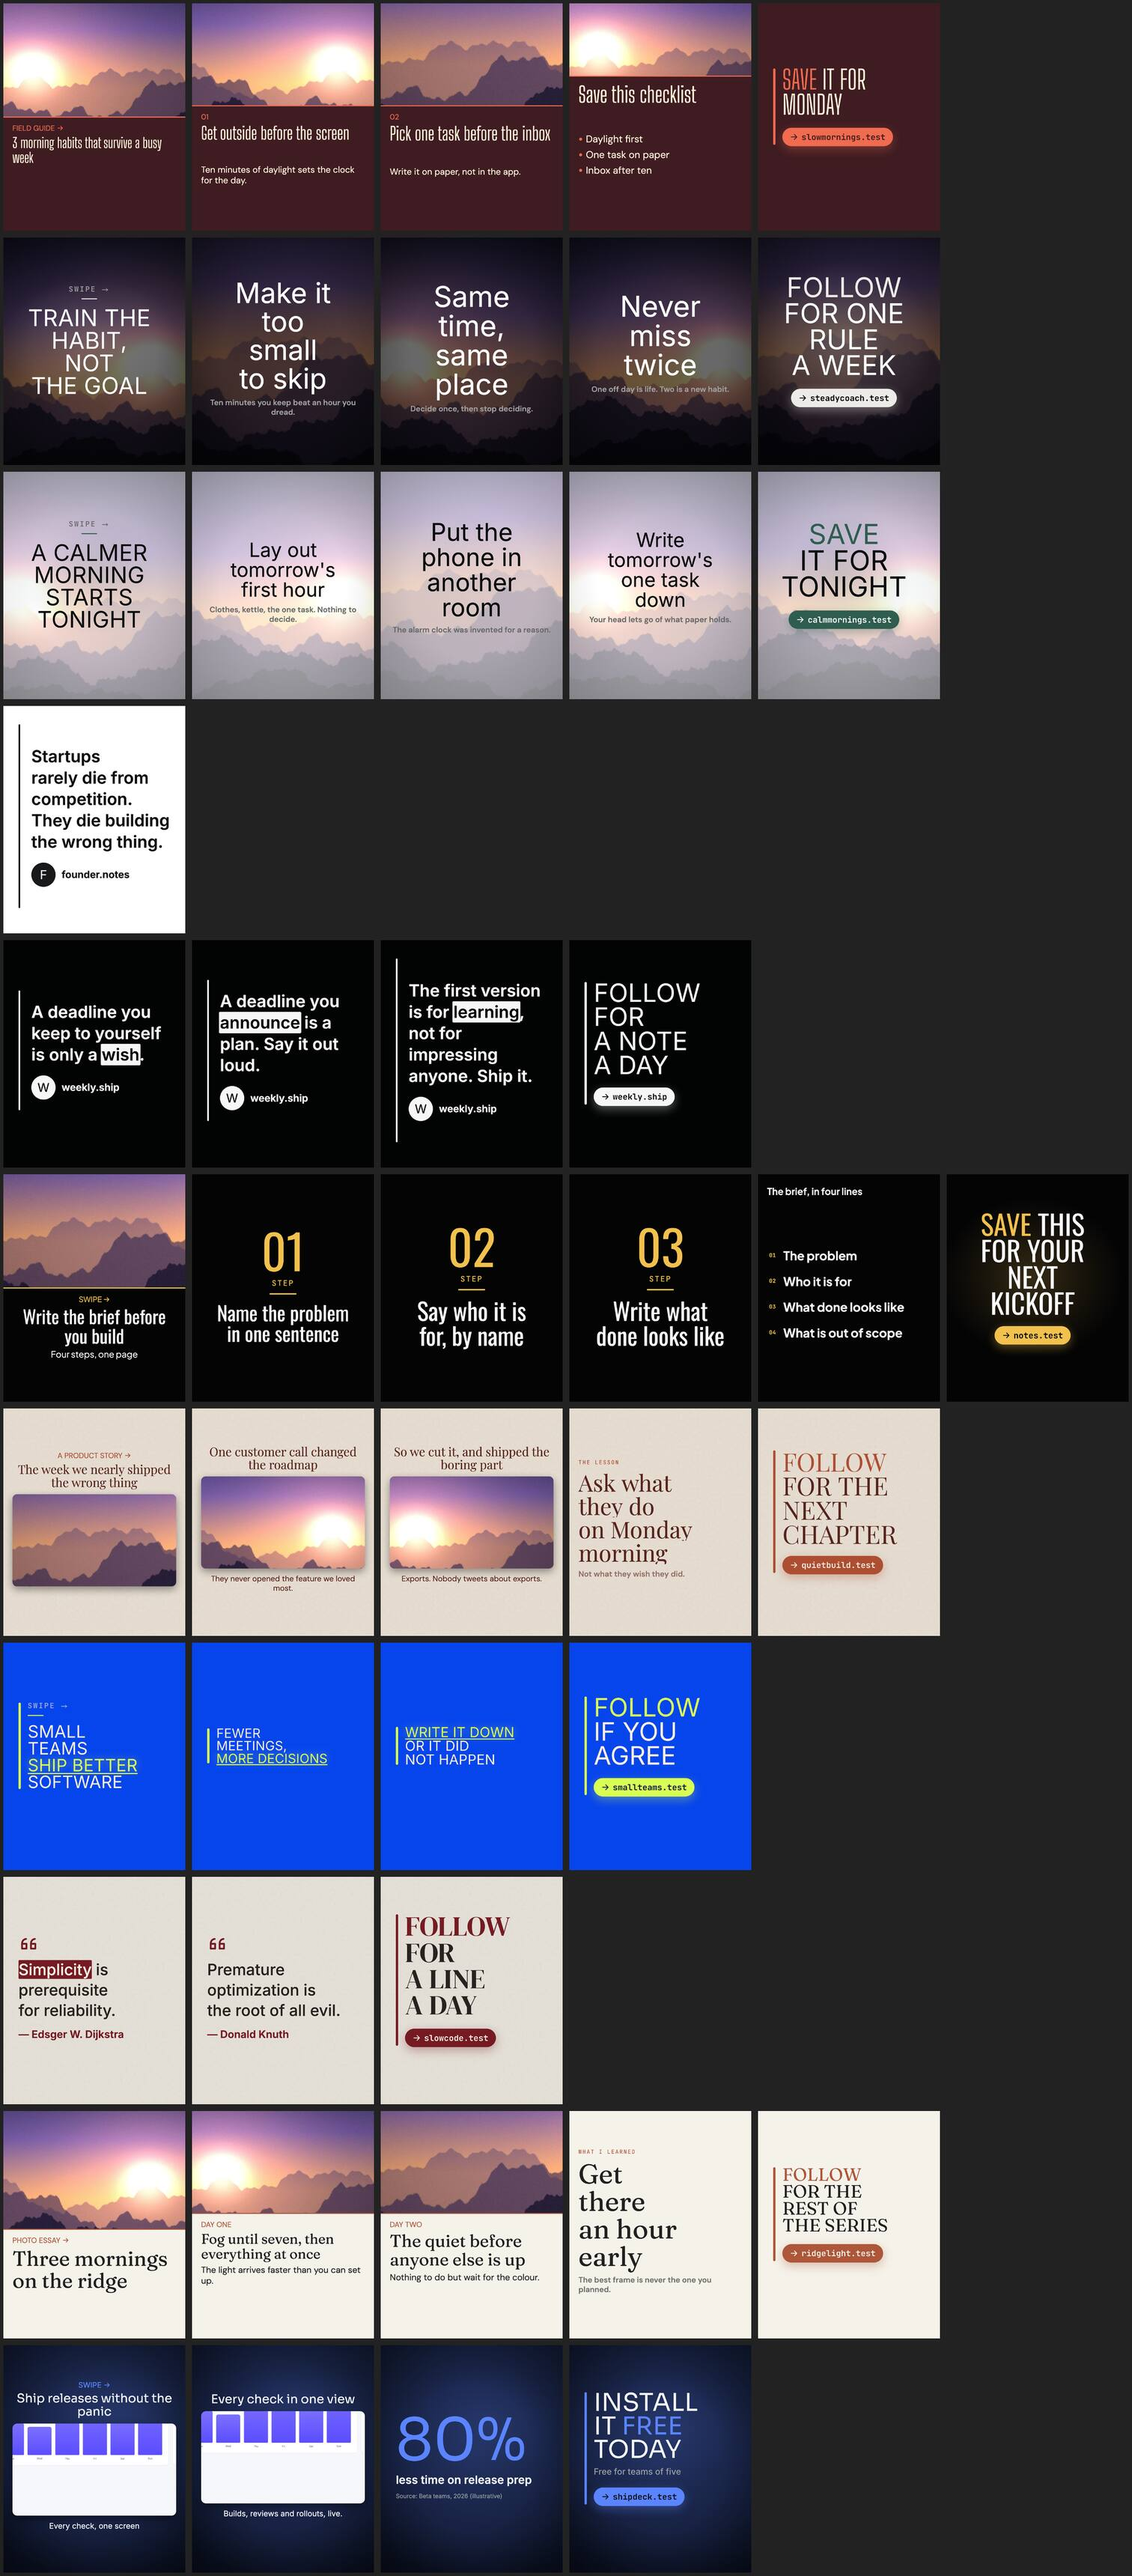
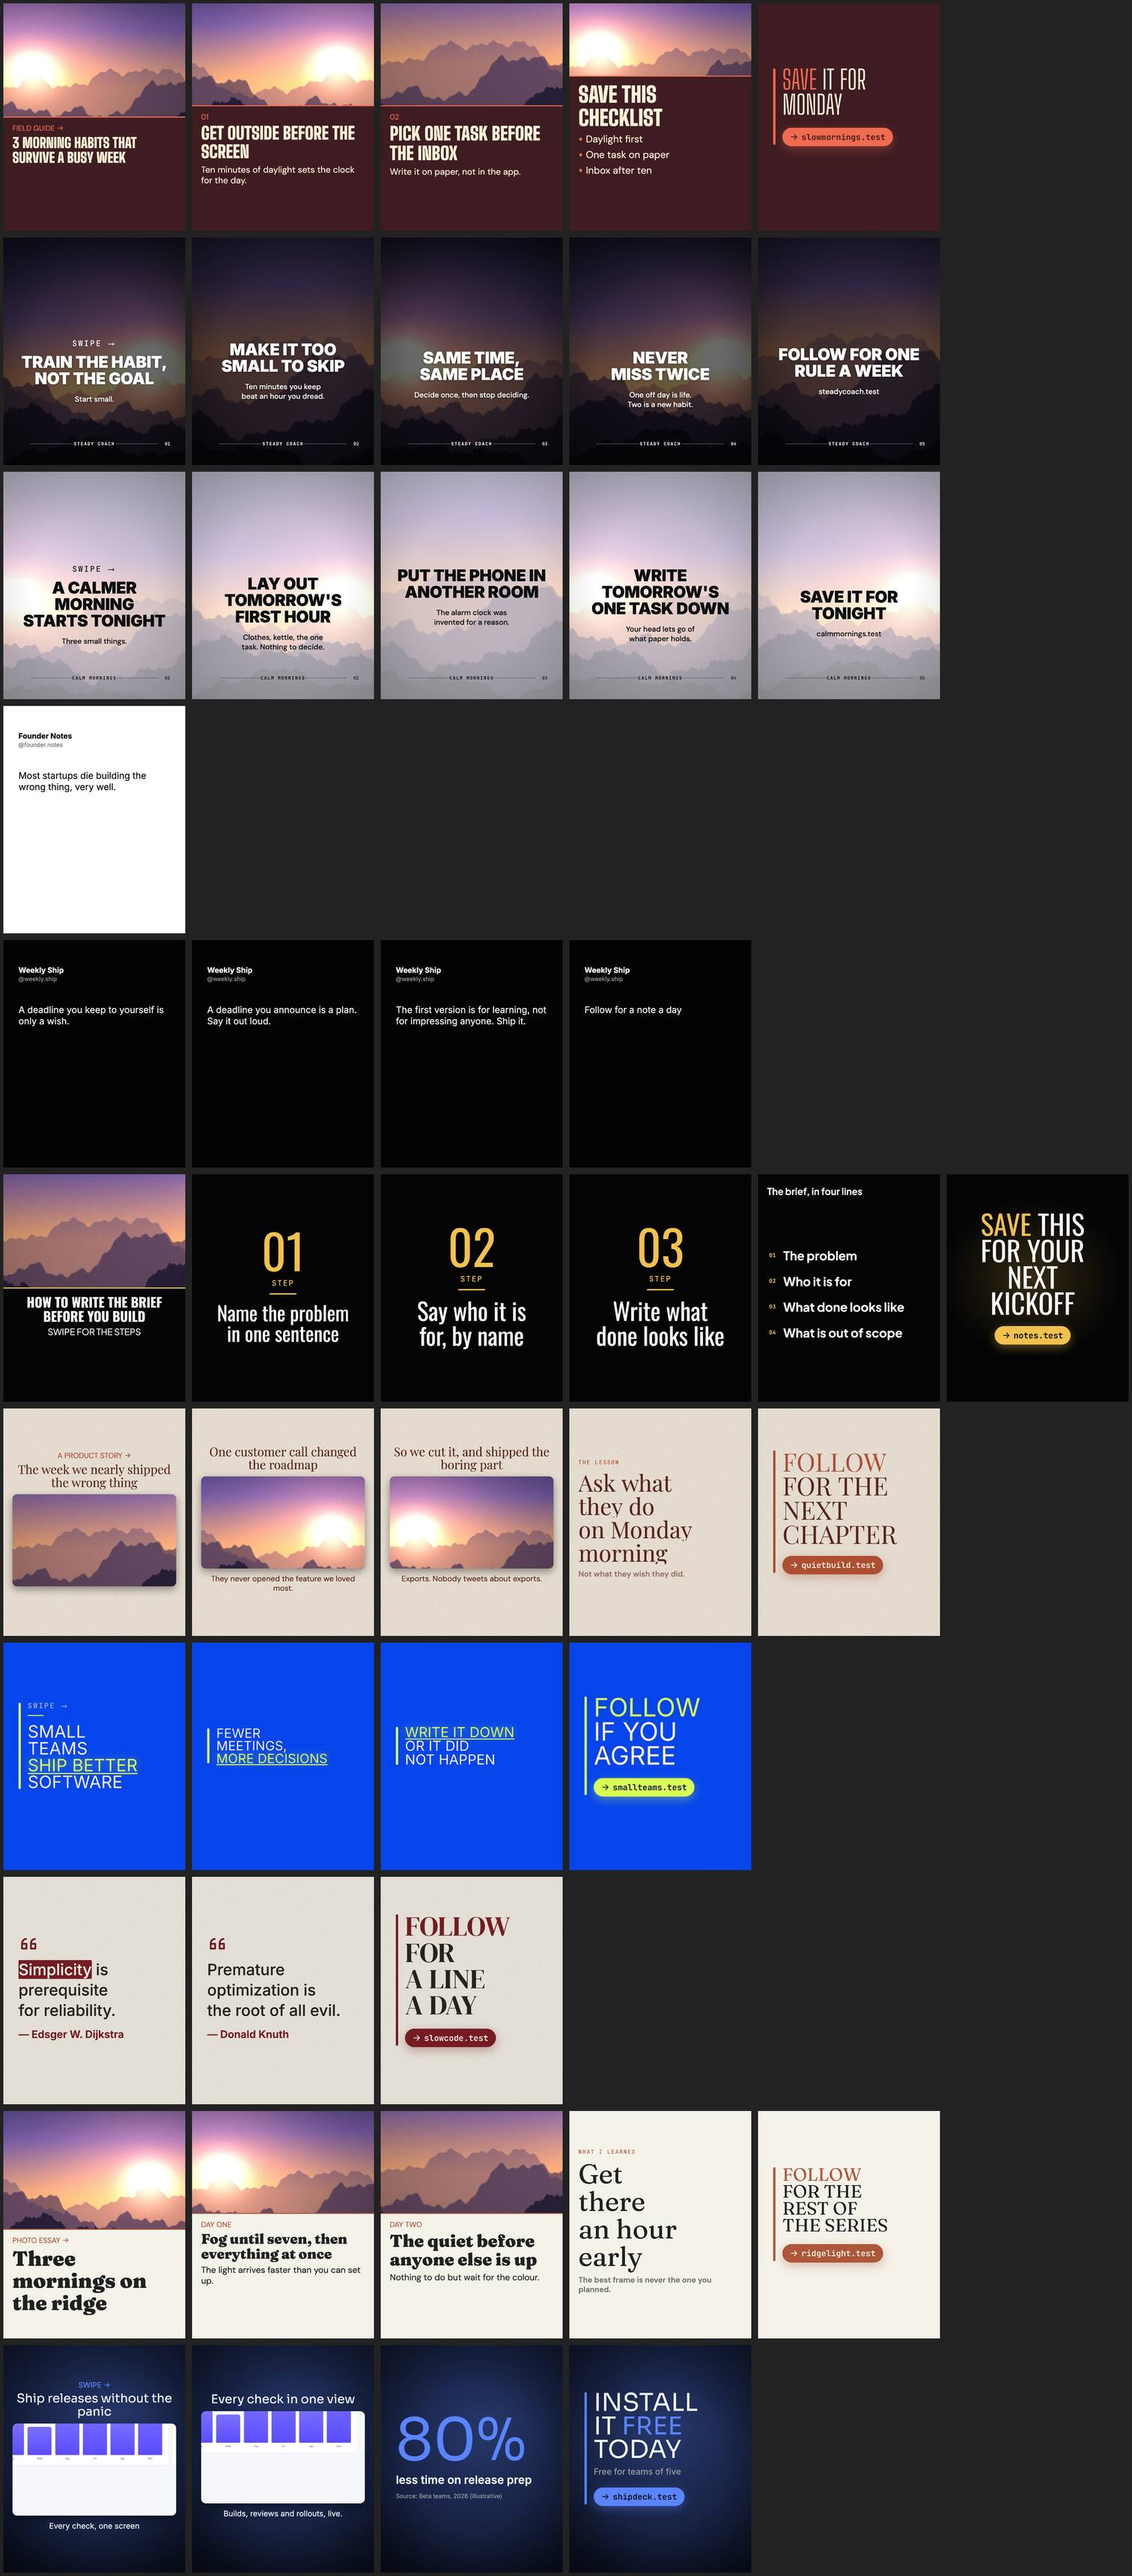
Five offered styles match their originals: byline, poster footer, swipe line
plain-note and plain-note-dark are text posts under the brand's name and
handle, with no rule, avatar or highlights; cinematic-dark and -light set
heavy capitals low with a line under them and the brand name and page number
along the foot; numbered-steps' cover sets heavy capitals with its swipe line
under them. Samples carry brand names. Side-by-side sheet against the offered
styles in docs/images/carousel-templates-proven-five.jpg.

diff --git a/test/carousel_templates.test.js b/test/carousel_templates.test.js
@@ -114,7 +114,7 @@ test("layout: grounds turn the brand over with readable type; photo surfaces and
   const numbered = layoutCarousel("numbered-steps", slides, { brand });
   assert.deepEqual(numbered.scenes.map((scene) => scene.module), ["split-screen", "section-card", "section-card", "cta"]);
   assert.deepEqual(numbered.scenes.slice(1, 3).map((scene) => scene.params.number), [1, 2], "steps are numbered in slide order");
-  assert.equal(numbered.scenes[0].params.kicker, "Swipe →", "the cover asks for the swipe");
+  assert.equal(numbered.scenes[0].params.body, "SWIPE FOR THE STEPS", "the cover asks for the swipe under its headline");
   const note = layoutCarousel("plain-note", slides, { brand });
   assert.ok(note.scenes.slice(0, 3).every((scene) => JSON.stringify(scene.params).includes("me.test")), "the identity line on every slide");
   for (const [id, ground] of [["paper-story", "light"], ["plain-note", "light"], ["bold-statement", "brand"], ["plain-note-dark", "dark"]]) {

diff --git a/docs/guide/carousels.md b/docs/guide/carousels.md
@@ -39,14 +39,18 @@ Ten templates follow feed styles that have been proven in production, rebuilt on
 
 ![Every template's sample at 4:5](../images/carousel-templates.jpg)
 
+The five styles a host app offers today, side by side with its own previews (left), our cover and a body slide:
+
+![The five offered styles next to ours](../images/carousel-templates-proven-five.jpg)
+
 | Template | The look | For |
 |---|---|---|
 | `caption-block` | The photo on top, a solid panel under it with condensed capitals; a short checklist under a slimmer photo | Education and checklists with photos |
-| `cinematic-dark` | Photos edge to edge under a dark reading layer, heavy centred capitals | Practical advice, coaching, motivation |
+| `cinematic-dark` | Photos edge to edge under a dark reading layer, heavy capitals in the lower middle, a small line under them, the brand name and page number along the foot | Practical advice, coaching, motivation |
 | `cinematic-light` | The same under a soft light wash | The same, calmer |
-| `plain-note` | A white page: one observation in plain sentence case, signed with the account's handle | Founder notes, opinions |
-| `plain-note-dark` | The same on near-black, the punchline lit | Reminders, hot takes |
-| `numbered-steps` | A photo-led cover with the promise on black, then one big numbered step per slide, the checklist as numbered lines | How-tos, routines, frameworks |
+| `plain-note` | A white page like a text post: the brand's name and handle at the top, one short observation under them in a regular weight | Founder notes, opinions |
+| `plain-note-dark` | The same on near-black | Reminders, hot takes |
+| `numbered-steps` | A photo over a black band with the promise in heavy capitals and a swipe line, then one big numbered step per slide, the checklist as numbered lines | How-tos, routines, frameworks |
 | `paper-story` | Warm paper, a serif headline over a framed photo, a caption under it | Product and founder stories |
 | `bold-statement` | The brand colour as the page, oversized capitals, one phrase lit | Values, manifestos, statements |
 | `pull-quote` | Serif pull quotes on paper, a large quotation mark in the accent | Quotes and testimonials |
@@ -89,7 +93,7 @@ Without `--template`, each template scores the brief: +2 for each `best_for` wor
 
 The samples are in `examples/carousel/<template>-4x5` (plus `numbered-steps-9x16`), written by `node scripts/carousel-template-samples.mjs`. Their photos are stand-ins already in the repo. Remotion and HyperFrames draw the templates the same way:
 
-![numbered-steps, paper-story and cinematic-dark: Remotion above, HyperFrames below](../images/carousel-templates-parity.jpg)
+![cinematic-dark, plain-note-dark and numbered-steps: Remotion above, HyperFrames below](../images/carousel-templates-parity.jpg)
 
 ## Destinations
 
